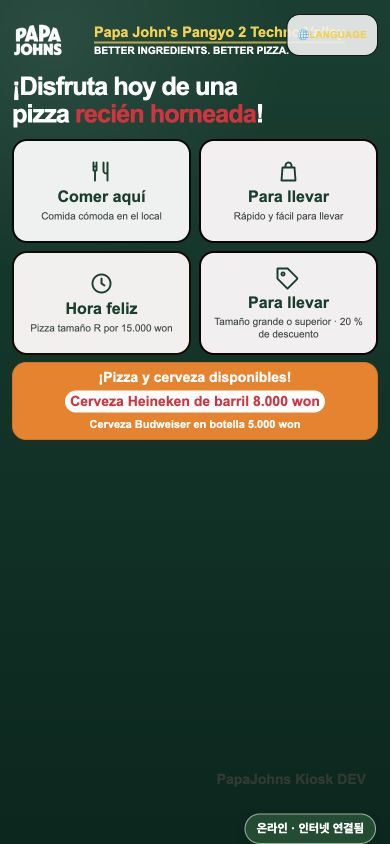
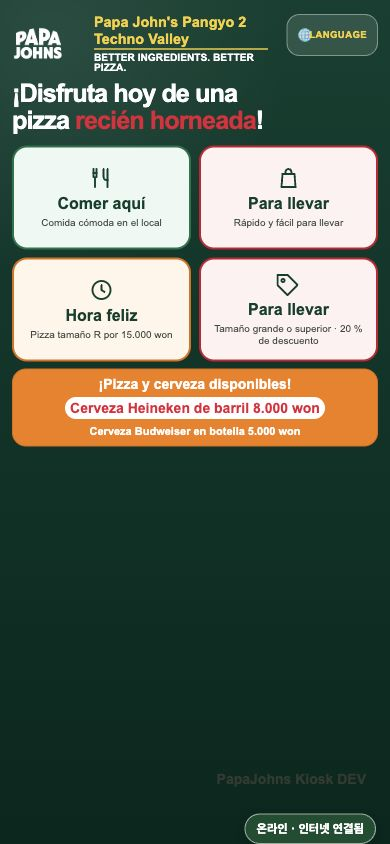
fix: prevent mobile branding language overlap

Changed region(s): [[0.0308, 0.0, 0.9846, 0.5545], [0.7692, 0.955, 0.9231, 1.0], [0.6462, 0.955, 0.7385, 0.9858]]

diff --git a/tests/kiosk-home-branding-layout.test.js b/tests/kiosk-home-branding-layout.test.js
@@ -33,6 +33,7 @@ test('language logo, banners, footer and promo layout use kiosk-only refinements
   assert.match(html, /body\[data-step="home"\] \.heroPromo>\*\{[\s\S]*?max-width:100%[\s\S]*?white-space:normal!important[\s\S]*?overflow-wrap:anywhere/);
   assert.match(html, /@media\(max-width:700px\)\{[\s\S]*?\.heroBrandText \.heroLocation\{[\s\S]*?font-size:14\.4px!important[\s\S]*?\.heroBrandLockup \.heroTagline\{[\s\S]*?font-size:10\.2px!important/);
   assert.match(html, /@media\(max-width:700px\)\{[\s\S]*?\.heroBrandLockup\{[\s\S]*?gap:2px!important[\s\S]*?\.heroBrandText\{[\s\S]*?margin-left:-8px!important/);
+  assert.match(html, /@media\(max-width:700px\)\{[\s\S]*?\.heroBrandText\{[\s\S]*?max-width:calc\(100vw - 216px\)!important[\s\S]*?\.heroLocation\{[\s\S]*?white-space:normal!important[\s\S]*?overflow-wrap:anywhere[\s\S]*?\.heroTagline\{[\s\S]*?white-space:normal!important/);
   assert.match(html, /\.heroTop>\.heroLangBtn span\{[\s\S]*?font-size:9\.6px!important/);
   assert.match(html, /\.langTopBtn span\{[\s\S]*?font-size:12\.8px!important/);
   assert.match(html, /\.cartbar\{[\s\S]*?padding-left:0!important[\s\S]*?padding-right:0!important/);
@@ -50,4 +51,21 @@ test('tablet home fits its viewport while preserving three equal banners', () =>
   assert.match(tabletHome, /\.heroChoice,[\s\S]*?height:178px!important[\s\S]*?min-height:178px!important/);
   assert.match(tabletHome, /\.heroPromo\{[\s\S]*?height:236px!important[\s\S]*?min-height:236px!important/);
   assert.doesNotMatch(tabletHome, /overflow\s*:\s*hidden/);
+});
+
+test('mobile branding stays clear of the LANGUAGE button at supported widths', () => {
+  const horizontalPadding = 12;
+  const logoAndGapWidth = 88 + 2 - 8;
+  const languageButtonWidth = 92;
+  const headerGap = 18;
+
+  for (const viewportWidth of [360, 390]) {
+    const brandTextWidth = viewportWidth - 216;
+    const brandRight = horizontalPadding + logoAndGapWidth + brandTextWidth;
+    const languageButtonLeft = viewportWidth - horizontalPadding - languageButtonWidth;
+    assert.ok(
+      brandRight + headerGap <= languageButtonLeft,
+      `${viewportWidth}px branding must not overlap the LANGUAGE button`,
+    );
+  }
 });

diff --git a/tests/kiosk21-release-readiness.test.js b/tests/kiosk21-release-readiness.test.js
@@ -16,7 +16,7 @@ test('release changes do not alter protected application sources', () => {
   assert.equal(pkg.version, '1.2.18');
   assert.equal(lock.version, '1.2.18');
   assert.equal(lock.packages[''].version, '1.2.18');
[5 lines of base64/hex data omitted]

diff --git a/index.html b/index.html
@@ -6920,14 +6920,19 @@ body[data-step="language"] .languageScreen>.heroLogoDark{
   }
   body[data-step="home"] .heroBrandText{
     margin-left:-8px!important;
+    max-width:calc(100vw - 216px)!important;
     gap:2px!important;
   }
   body[data-step="home"] .heroBrandText .heroLocation{
     font-size:14.4px!important;
     padding-bottom:1px!important;
+    white-space:normal!important;
+    overflow-wrap:anywhere;
   }
   body[data-step="home"] .heroBrandLockup .heroTagline{
     font-size:10.2px!important;
+    white-space:normal!important;
+    overflow-wrap:normal;
   }
   body[data-step="home"] .heroChoice,
   body[data-step="home"] .heroChoice.dinein,
